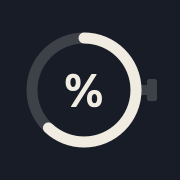
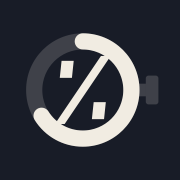
Add files via upload

diff --git a/index.html b/index.html
@@ -7,6 +7,8 @@
 <meta name="apple-mobile-web-app-capable" content="yes">
 <meta name="apple-mobile-web-app-title" content="DAYpercent">
 <meta name="apple-mobile-web-app-status-bar-style" content="black-translucent">
+<meta name="author" content="edSELVA">
+<link rel="icon" type="image/svg+xml" href="icon.svg">
 <link rel="apple-touch-icon" href="apple-touch-icon.png">
 <style>
 /* Un sol objecte centrat; el fons segueix la llum del dia (el JS reescriu els tokens) */
@@ -22,6 +24,12 @@ body {
 }
 svg { width: min(64vw, 280px); height: auto; max-width: 100%; overflow: visible; }
 .dim { opacity: .18; }
+footer {
+  position: fixed; left: 0; right: 0; bottom: 0;
+  padding: 0 16px calc(16px + env(safe-area-inset-bottom, 0px));
+  text-align: center; font: 500 11px/1 system-ui, sans-serif; letter-spacing: .12em;
+  color: var(--ink); opacity: .18;
+}
 </style>
 </head>
 <body>
@@ -37,6 +45,8 @@ svg { width: min(64vw, 280px); height: auto; max-width: 100%; overflow: visible;
           stroke-linecap="round" transform="rotate(-90 100 100)"/>
   <g id="lcd" fill="var(--ink)"></g>
 </svg>
+
+<footer>DAYpercent by edSELVA</footer>
 
 <script>
 const R = 70, LEN = 2 * Math.PI * R;

diff --git a/README.md b/README.md
@@ -1,2 +1,7 @@
 # DAYpercent
+
 A minimalist clock that shows how much of the day has passed as a percentage, with a background that shifts with the light of the day.
+
+00:00 is 0%, 12:00 is 50%, 18:00 is 75%. Each 1% is 14 minutes and 24 seconds.
+
+DAYpercent by edSELVA
